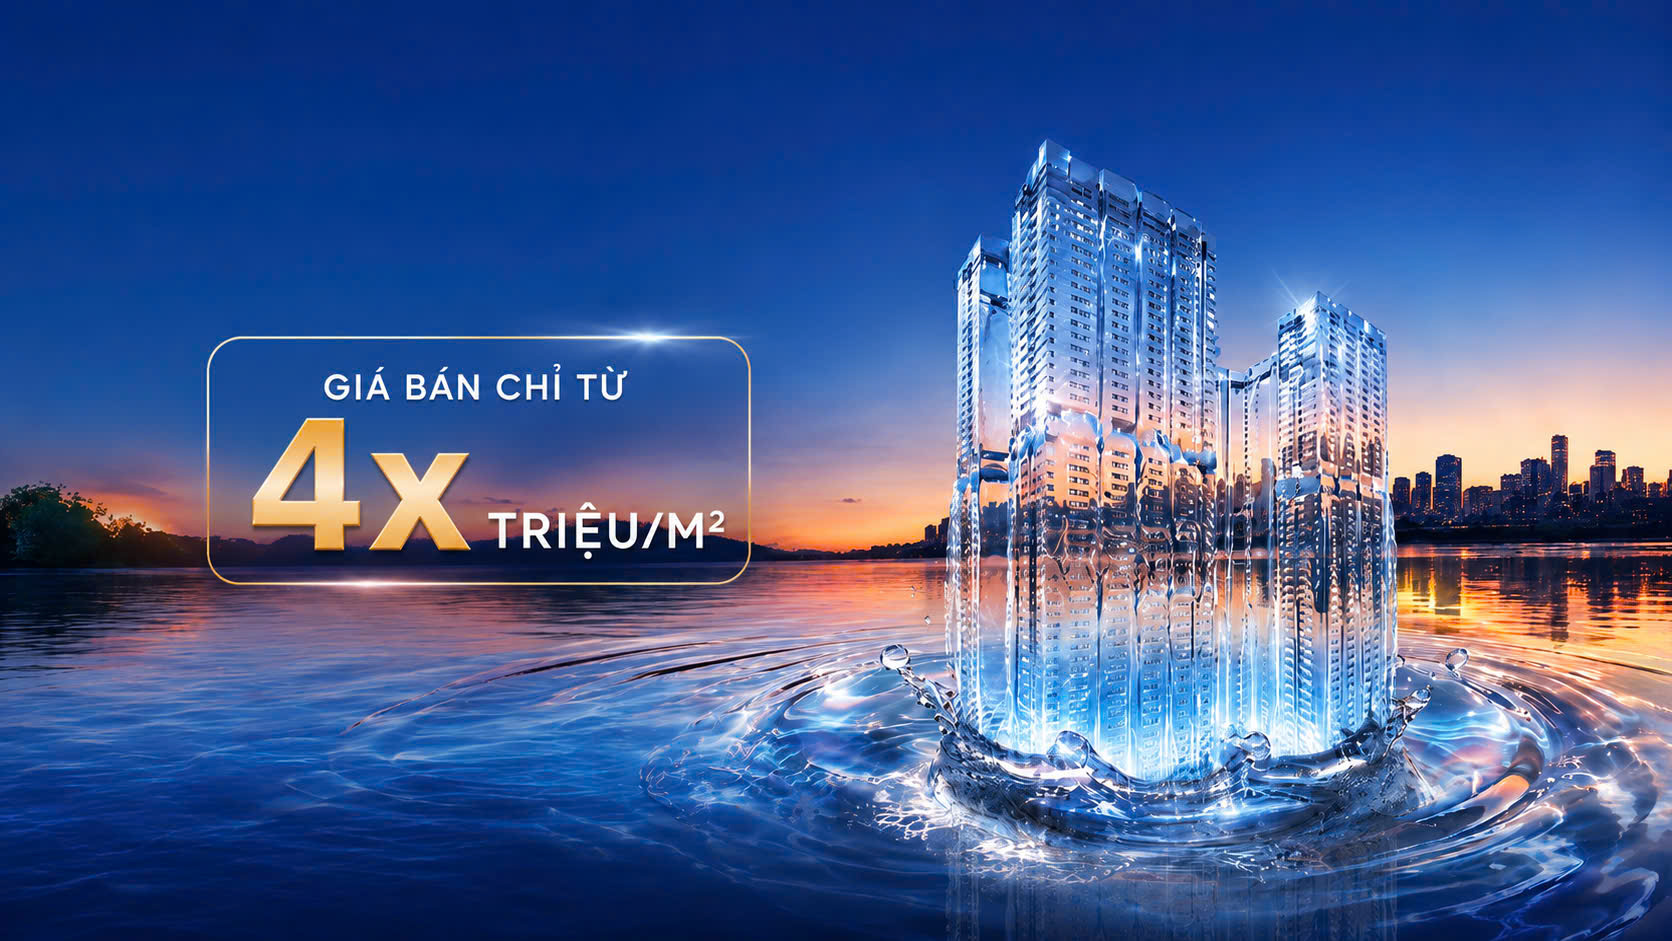
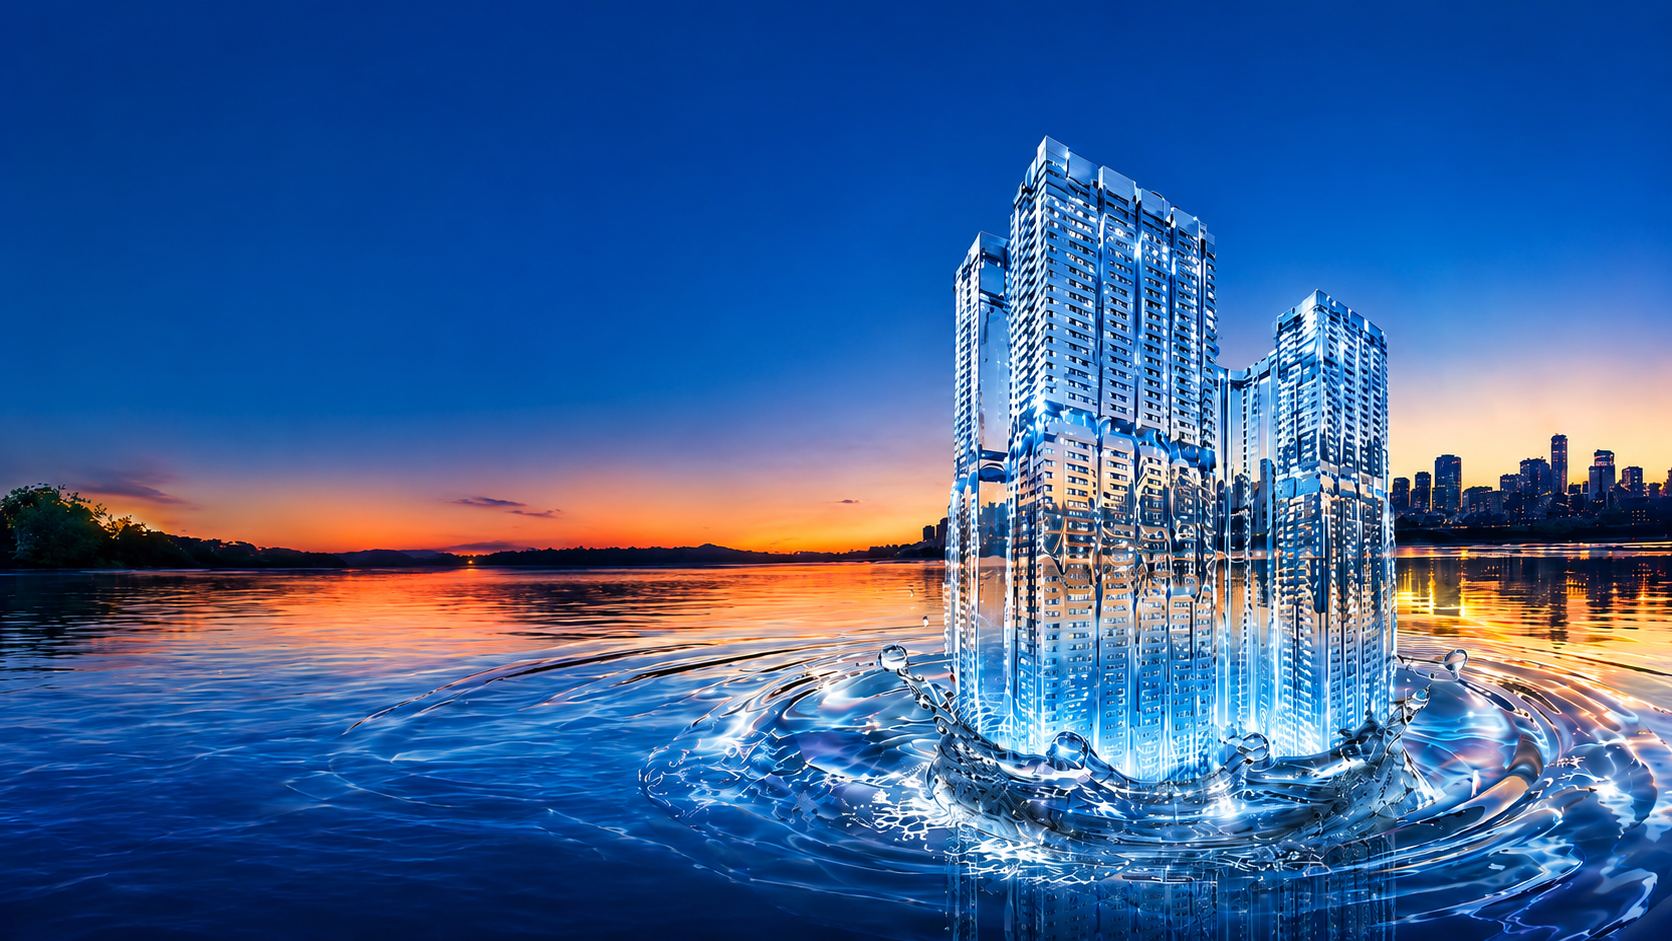
feat: enhance hero section with pricing details and updated call-to-action buttons

diff --git a/style.css b/style.css
@@ -162,6 +162,72 @@ nav ul li a:hover::after {
     animation: fadeInUp 1.2s ease-out;
 }
 
+.hero .hero-price {
+    position: relative;
+    display: inline-flex;
+    flex-direction: column;
+    align-items: center;
+    min-width: 430px;
+    margin-bottom: 30px;
+    padding: 18px 42px 20px;
+    background: transparent;
+    border: 2px solid #f4c35f;
+    border-radius: 22px;
+    color: var(--white);
+    box-shadow: 0 18px 45px rgba(0,0,0,0.22), inset 0 0 20px rgba(255,255,255,0.08);
+    overflow: hidden;
+    animation: fadeInUp 1.3s ease-out;
+}
+
+.hero .hero-price::before,
+.hero .hero-price::after {
+    content: "";
+    position: absolute;
+    height: 2px;
+    background: linear-gradient(90deg, transparent, rgba(255,255,255,0.95), transparent);
+    filter: blur(0.2px);
+}
+
+.hero .hero-price::before {
+    top: 0;
+    right: 50px;
+    width: 120px;
+}
+
+.hero .hero-price::after {
+    bottom: 0;
+    left: 40px;
+    width: 110px;
+}
+
+.hero-price-label {
+    display: block;
+    margin-bottom: 2px;
+    font-size: 24px;
+    font-weight: 800;
+    letter-spacing: 2px;
+    text-shadow: 0 2px 8px rgba(0,0,0,0.45);
+}
+
+.hero-price-main {
+    display: flex;
+    align-items: flex-end;
+    justify-content: center;
+    gap: 14px;
+    font-size: 30px;
+    font-weight: 900;
+    letter-spacing: 1px;
+    line-height: 0.95;
+    text-shadow: 0 3px 10px rgba(0,0,0,0.5);
+}
+
+.hero-price-main strong {
+    color: #f7b44a;
+    font-size: 96px;
+    line-height: 0.78;
+    text-shadow: 0 3px 0 #8b4c18, 0 9px 18px rgba(0,0,0,0.38);
+}
+
 .hero .btn-group {
     display: flex;
     gap: 20px;
@@ -169,7 +235,20 @@ nav ul li a:hover::after {
     animation: fadeInUp 1.4s ease-out;
 }
 
+.hero .cta-urgency {
+    margin-top: 16px;
+    margin-bottom: 0;
+    color: rgba(255,255,255,0.86);
+    font-size: 14px;
+    font-weight: 500;
+    letter-spacing: 0;
+    animation: fadeInUp 1.5s ease-out;
+}
+
 .btn-primary {
+    display: inline-flex;
+    align-items: center;
+    justify-content: center;
     padding: 15px 40px;
     background: var(--primary);
     color: var(--white);
@@ -180,6 +259,9 @@ nav ul li a:hover::after {
 }
 
 .btn-outline {
+    display: inline-flex;
+    align-items: center;
+    justify-content: center;
     padding: 15px 40px;
     background: transparent;
     color: var(--white);
@@ -347,8 +429,8 @@ section {
 
 .amenities-grid {
     display: grid;
-    grid-template-columns: repeat(auto-fit, minmax(280px, 1fr));
-    gap: 30px;
+    grid-template-columns: repeat(4, minmax(0, 1fr));
+    gap: 22px;
 }
 
 .amenity-card {
@@ -382,12 +464,12 @@ section {
 }
 
 .amenity-info {
-    padding: 30px;
+    padding: 24px;
     text-align: left;
 }
 
 .amenity-info h4 {
-    font-size: 22px;
+    font-size: 20px;
     color: var(--primary);
     margin-bottom: 15px;
 }
@@ -635,6 +717,10 @@ section {
     margin-bottom: 20px;
 }
 
+.form-group.is-hidden-field {
+    display: none;
+}
+
 .form-group input, .form-group textarea {
     width: 100%;
     padding: 15px;
@@ -658,6 +744,13 @@ section {
     font-weight: 700;
     cursor: pointer;
     transition: var(--transition);
+}
+
+.form-urgency {
+    margin-top: 14px;
+    color: rgba(255,255,255,0.72);
+    font-size: 13px;
+    text-align: center;
 }
 
 /* --- Footer --- */
@@ -841,6 +934,10 @@ footer {
     .overview-grid, .location-content, .footer-grid {
         grid-template-columns: 1fr;
     }
+
+    .amenities-grid {
+        grid-template-columns: repeat(2, minmax(0, 1fr));
+    }
     
     .hero {
         background-attachment: scroll;
@@ -864,9 +961,43 @@ footer {
         font-size: 14px;
         margin-bottom: 30px;
     }
+
+    .hero .hero-price {
+        min-width: 0;
+        width: 100%;
+        max-width: 360px;
+        padding: 14px 24px 16px;
+        border-radius: 18px;
+    }
+
+    .hero-price-label {
+        font-size: 18px;
+    }
+
+    .hero-price-main {
+        gap: 10px;
+        font-size: 22px;
+    }
+
+    .hero-price-main strong {
+        font-size: 70px;
+    }
     
     .hero .btn-group {
         flex-direction: column;
         gap: 15px;
+    }
+
+    .amenities-grid {
+        grid-template-columns: 1fr;
+    }
+
+    .btn-primary,
+    .btn-outline {
+        width: 100%;
+        padding: 14px 20px;
+        font-size: 14px;
+        line-height: 1.35;
+        text-align: center;
     }
 }

diff --git a/index.html b/index.html
@@ -111,10 +111,15 @@
             <p>PHÁT ĐẠT & MITSUBISHI CORPORATION</p>
             <h1>MONREI SAIGON</h1>
             <p>BIỂU TƯỢNG SỐNG THỦY LIỆU NHẬT BẢN GIỮA LÒNG THỦ PHỦ CÔNG NGHIỆP</p>
-            <div class="btn-group">
-                <a href="#contact" class="btn-primary">NHẬN BÁO GIÁ</a>
-                <a href="#overview" class="btn-outline">KHÁM PHÁ NGAY</a>
+            <div class="hero-price" aria-label="Giá bán chỉ từ 4x triệu mỗi mét vuông">
+                <span class="hero-price-label">GIÁ BÁN CHỈ TỪ</span>
+                <span class="hero-price-main"><strong>4x</strong> TRIỆU/M²</span>
             </div>
+            <div class="btn-group">
+                <a href="#contact" class="btn-primary">NHẬN BẢNG GIÁ PDF MỚI NHẤT</a>
+                <a href="#contact" class="btn-outline">ĐĂNG KÝ SUẤT ƯU TIÊN CHỌN CĂN</a>
+            </div>
+            <p class="cta-urgency">Ưu đãi đợt đầu đến 15/06/2026</p>
         </div>
     </section>
 
@@ -324,7 +329,7 @@
                     <div class="product-info">
                         <h4>Căn hộ điển hình (1PN – 3PN)</h4>
                         <p>Thiết kế linh hoạt, tối ưu hóa công năng đến từng cm. Không gian hoàn hảo cho gia đình trẻ và hiện đại.</p>
-                        <a href="#contact" class="btn-sm">NHẬN BÁO GIÁ</a>
+                        <a href="#contact" class="btn-sm">NHẬN MẶT BẰNG 1PN-3PN</a>
                     </div>
                 </div>
                 <div class="product-card reveal">
@@ -334,7 +339,7 @@
                     <div class="product-info">
                         <h4>Penthouse & Duplex</h4>
                         <p>"Dinh thự trên không" với sân vườn riêng biệt và tầm nhìn không giới hạn. Biểu tượng vị thế chủ nhân.</p>
-                        <a href="#contact" class="btn-sm">NHẬN BÁO GIÁ</a>
+                        <a href="#contact" class="btn-sm">NHẬN TƯ VẤN QUỸ CĂN PHÙ HỢP</a>
                     </div>
                 </div>
                 <div class="product-card reveal">
@@ -344,7 +349,7 @@
                     <div class="product-info">
                         <h4>Shophouse Khối Đế</h4>
                         <p>Vị trí "vàng" tại tầng 1 & 2, tiếp giáp mặt tiền đường. Lựa chọn tối ưu cho kinh doanh cao cấp.</p>
-                        <a href="#contact" class="btn-sm">NHẬN BÁO GIÁ</a>
+                        <a href="#contact" class="btn-sm">NHẬN CHÍNH SÁCH ƯU ĐÃI MỚI NHẤT</a>
                     </div>
                 </div>
             </div>
@@ -368,7 +373,7 @@
             </div>
             
             <div class="gallery-cta reveal">
-                <a href="#contact" class="btn-primary">ĐĂNG KÝ THAM QUAN NHÀ MẪU</a>
+                <a href="#contact" class="btn-primary">ĐĂNG KÝ SUẤT ƯU TIÊN CHỌN CĂN</a>
             </div>
         </div>
     </section>
@@ -413,7 +418,7 @@
             <div class="section-title reveal">
                 <h2 style="color: white;">ĐĂNG KÝ TƯ VẤN</h2>
                 <div class="divider"></div>
-                <p style="margin-top: 20px; color: rgba(255,255,255,0.7);">Để lại thông tin để nhận bảng giá và chính sách ưu đãi mới nhất từ chủ đầu tư.</p>
+                <p style="margin-top: 20px; color: rgba(255,255,255,0.7);">Để lại họ tên và số điện thoại để nhận bảng giá PDF, mặt bằng 1PN-3PN và chính sách ưu đãi mới nhất.</p>
             </div>
 
             <form class="contact-form reveal">
@@ -424,13 +429,14 @@
                 <div class="form-group">
                     <input type="tel" placeholder="Số điện thoại" required>
                 </div>
-                <div class="form-group">
-                    <input type="email" placeholder="Email">
+                <div class="form-group is-hidden-field">
+                    <input type="email" placeholder="Email (không bắt buộc)" tabindex="-1">
                 </div>
-                <div class="form-group">
-                    <textarea rows="4" placeholder="Lời nhắn của bạn"></textarea>
+                <div class="form-group is-hidden-field">
+                    <textarea rows="4" placeholder="Lời nhắn của bạn" tabindex="-1"></textarea>
                 </div>
-                <button type="submit" class="btn">GỬI YÊU CẦU NGAY</button>
+                <button type="submit" class="btn">NHẬN BẢNG GIÁ PDF MỚI NHẤT</button>
+                <p class="form-urgency">Đã có 327 khách đăng ký nhận bảng giá.</p>
             </form>
         </div>
     </section>
@@ -443,11 +449,9 @@
                     <div class="footer-logo">
                         <img src="image/favicon-1.png" alt="Monrei Logo">
                     </div>
-                    <p style="color: rgba(255,255,255,0.6); font-size: 14px;">Monrei Saigon - Tuyệt tác đô thị thủy liệu tiêu chuẩn Nhật Bản tại tâm điểm Bình Dương.</p>
+                    <p style="color: rgba(255,255,255,0.6); font-size: 14px;">Monrei Saigon - Tuyệt tác Đô thị Thủy liệu tiêu chuẩn Nhật Bản đầu tiên tại <span style="white-space: nowrap;">Việt Nam</span>.</p>
                     <div style="margin-top: 20px; display: flex; gap: 15px;">
-                        <a href="#" style="color: white;"><i class="fab fa-facebook-f"></i></a>
-                        <a href="#" style="color: white;"><i class="fab fa-youtube"></i></a>
-                        <a href="#" style="color: white;"><i class="fab fa-instagram"></i></a>
+                        <a href="https://www.facebook.com/MonreithuylieuSaiGon" target="_blank" rel="noopener" style="color: white;" aria-label="Facebook Monrei Saigon"><i class="fab fa-facebook-f"></i></a>
                     </div>
                 </div>
                 <div class="footer-col">